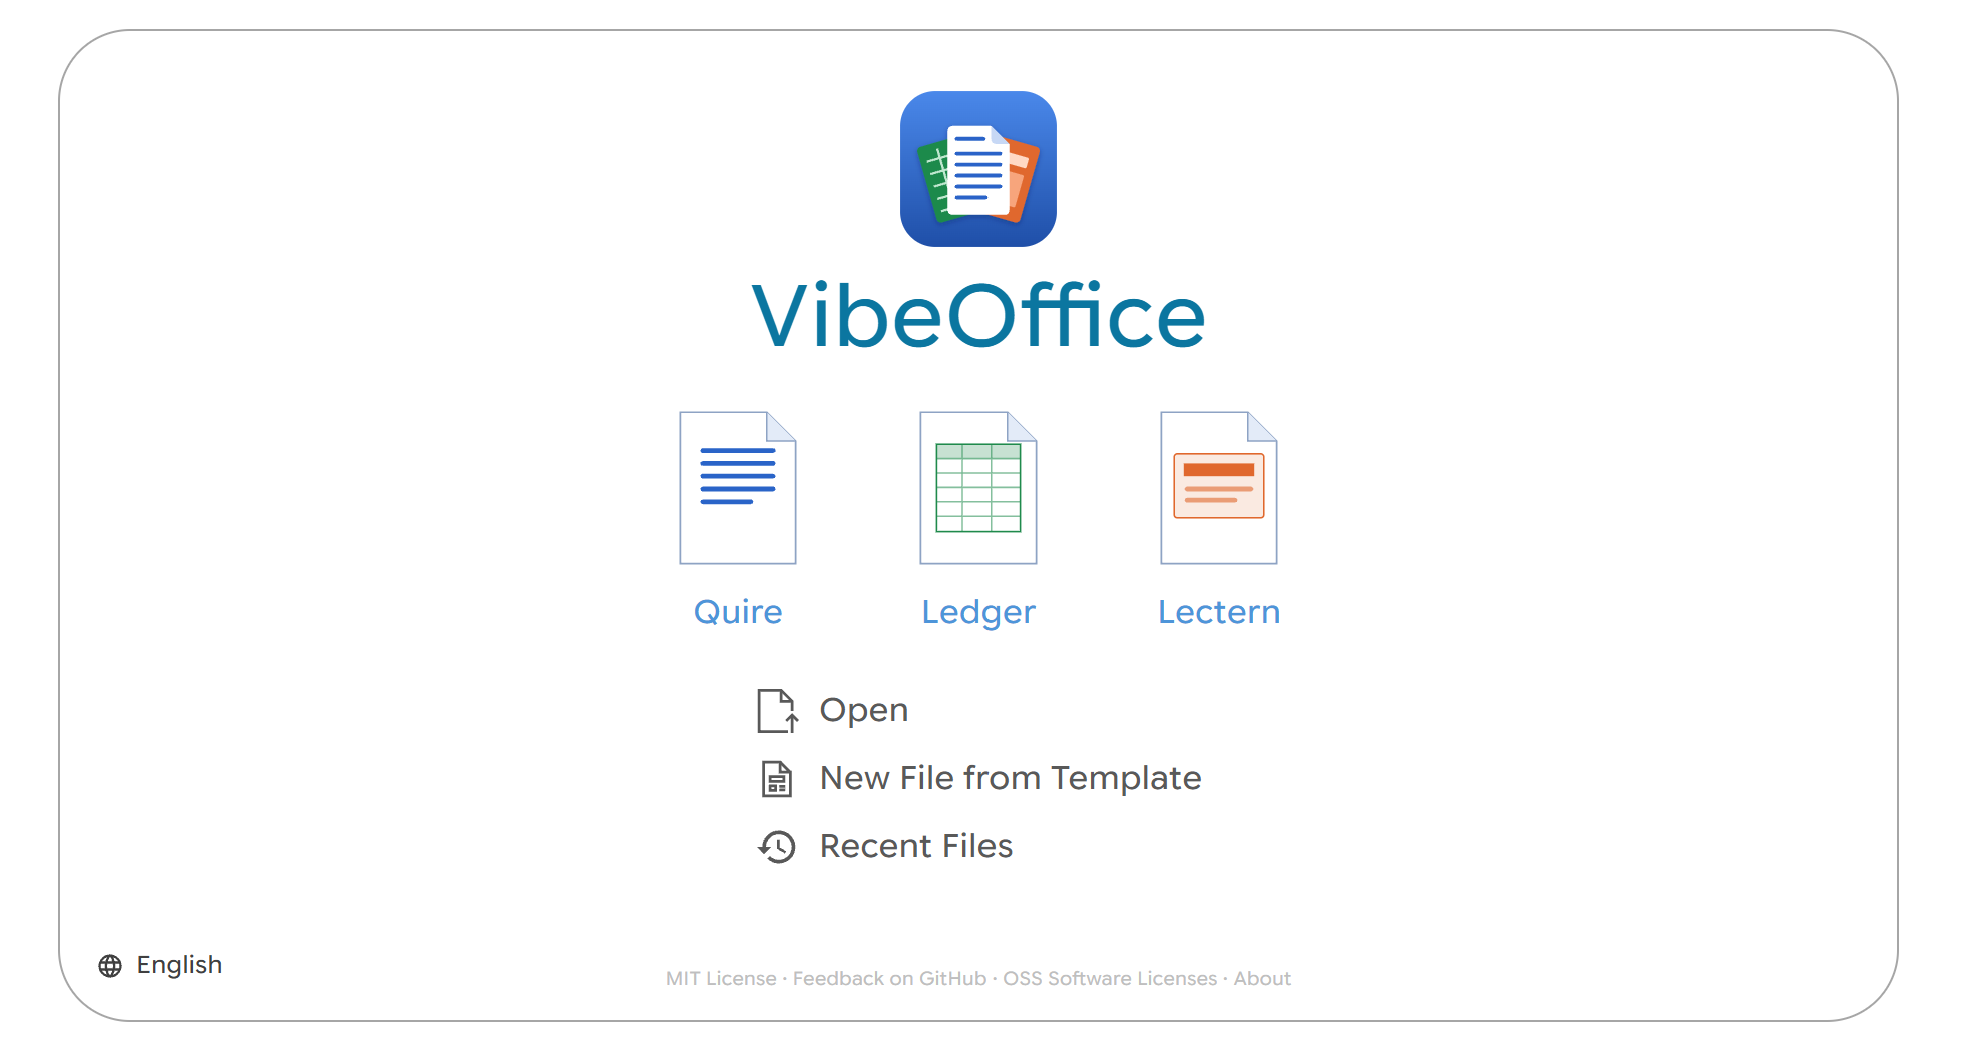
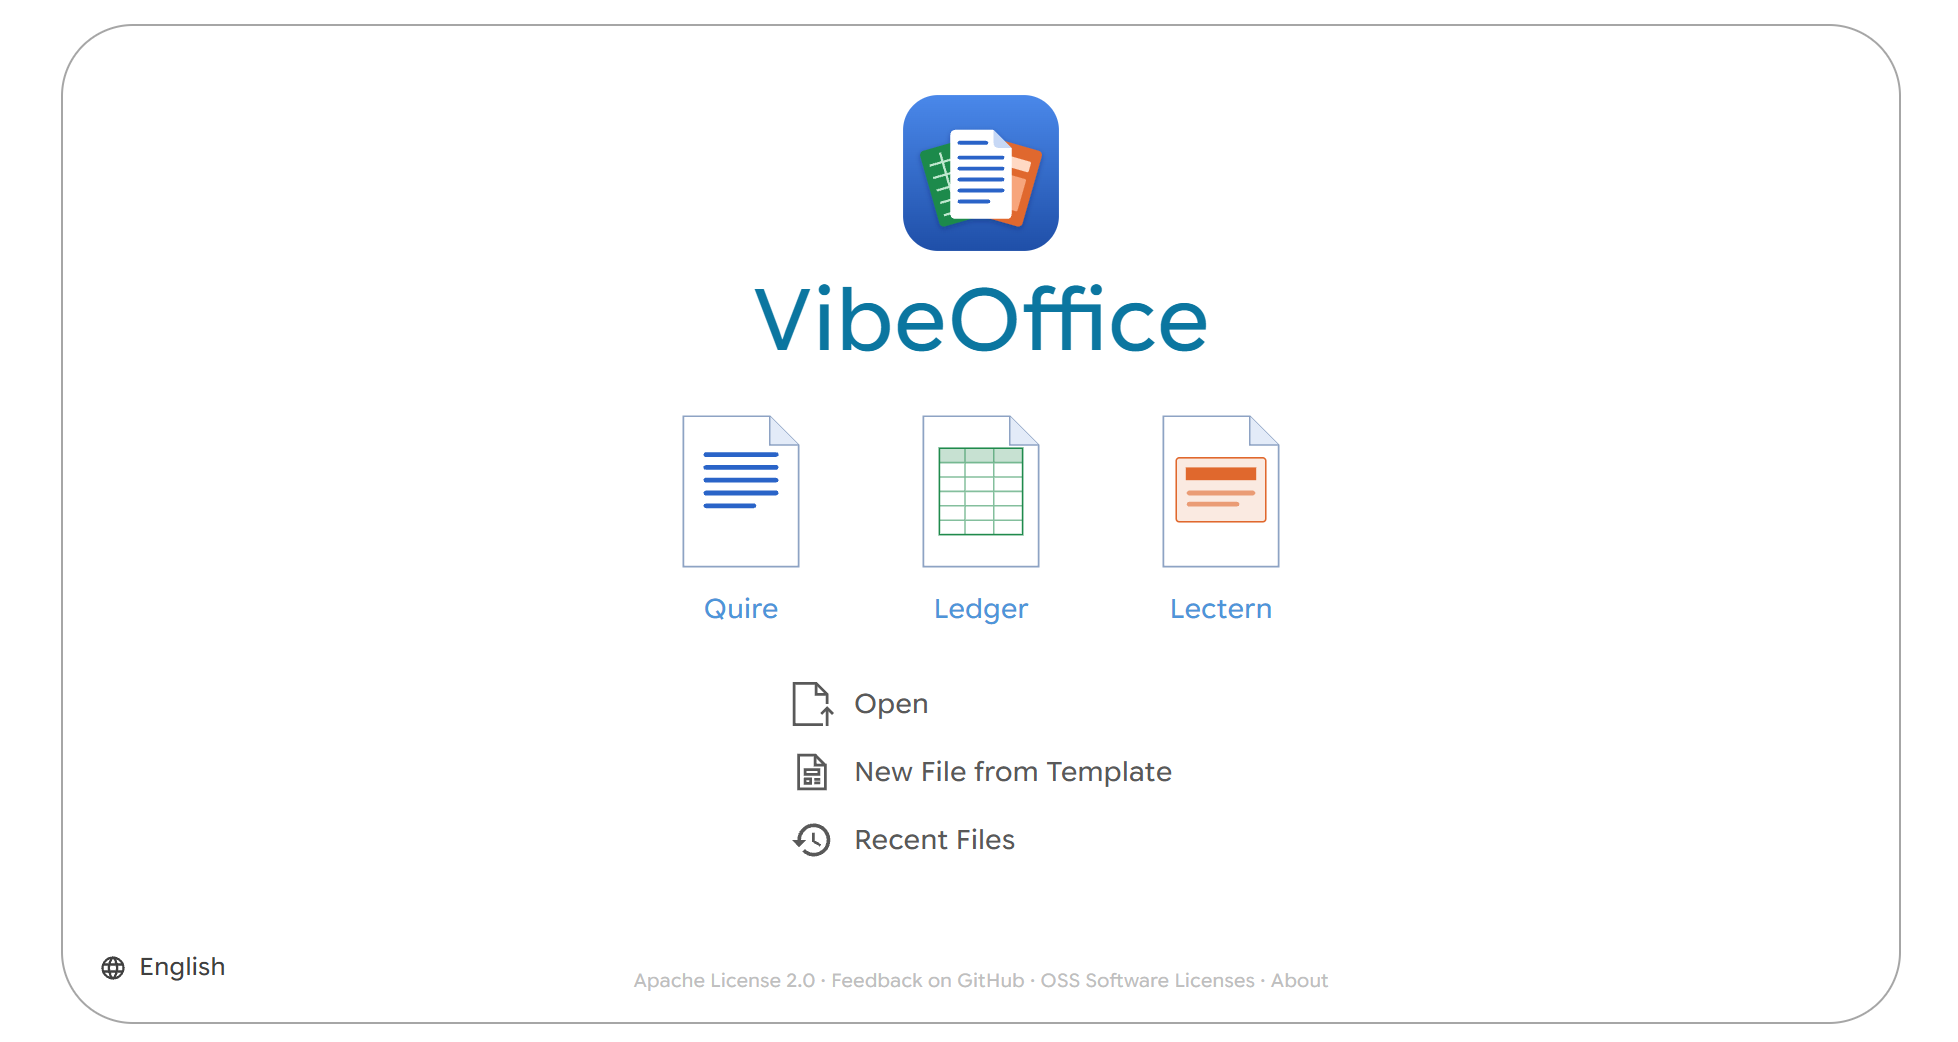
fix(typo): fix typo on index page

diff --git a/public/index.html b/public/index.html
@@ -186,7 +186,7 @@
         <div class="langmenu" id="langmenu" role="menu" hidden></div>
       </div>
       <p class="links">
-        <a href="https://github.com/acane77/VibeOffice-vscode-plugin/blob/main/LICENSE" target="_blank" rel="noopener">MIT License</a>
+        <a href="https://github.com/acane77/VibeOffice-vscode-plugin/blob/main/LICENSE" target="_blank" rel="noopener">Apache License 2.0</a>
         <a href="https://github.com/acane77/VibeOffice-vscode-plugin" target="_blank" rel="noopener">Feedback on GitHub</a>
         <a href="https://acane77.github.io/vibeoffice/oss-licenses.html" target="_blank" rel="noopener">OSS Software Licenses</a>
         <button id="aboutbtn" type="button">About</button>
